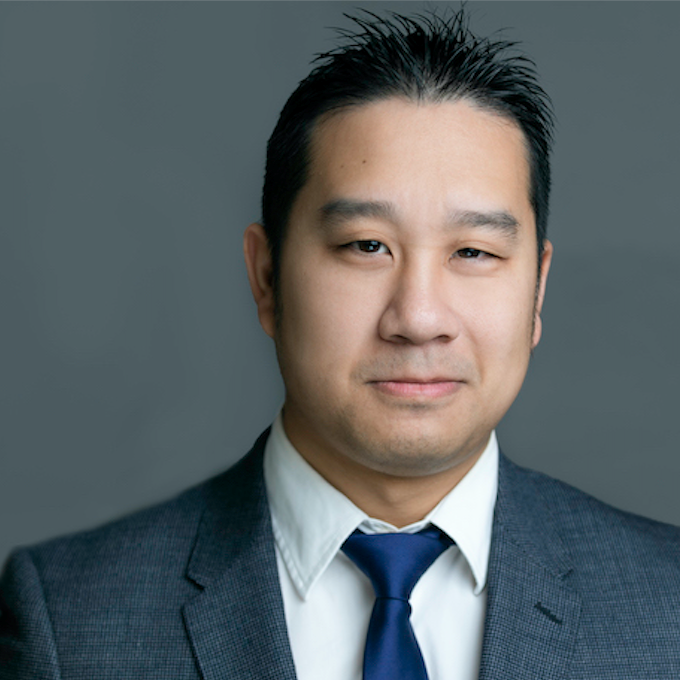
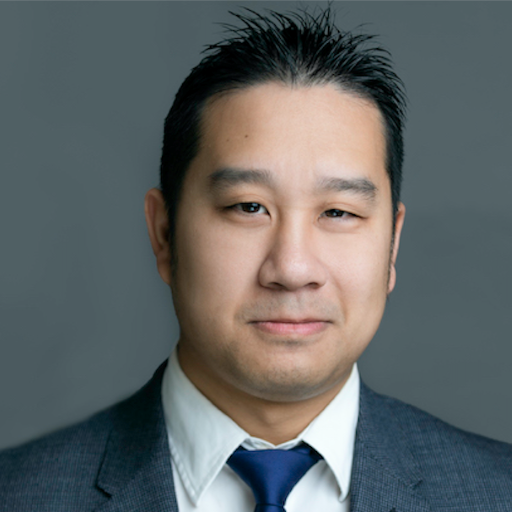
add nolan to team page

diff --git a/src/views/About.vue b/src/views/About.vue
@@ -114,6 +114,14 @@ export default {
       },
 
       {
+        name: "Nolan McCafferty",
+        img: require("@/assets/team/nolanheadshot.jpeg"),
+        title: "Developer",
+        fte: "part-time",
+        bio: "Nolan is a software and data engineer with 8 years of experience. He has a bachelor’s degree in Computer Engineering from the University of Iowa and is an Iowa City native."
+      },
+
+      {
         name: "Jason Ding",
         img: require("@/assets/team/jasonding.png"),
         title: "CFO",
@@ -147,7 +155,7 @@ export default {
 
       {
         name: "Mercy Wanja",
-        img: require("@/assets/team/IMG-20221102-WA0007-cropped.jpg"),
+        img: require("@/assets/team/IMG-20221102-WA0007_cropped.jpg"),
         title: "Customer support & data curation",
         fte: "part-time",
         bio: "Mercy is a Kenyan based multi-faceted individual with vast experience in research and data analysis. She's passionate about deriving insights and simplifying data sets. She's also passionate about the environment and empowering women."
